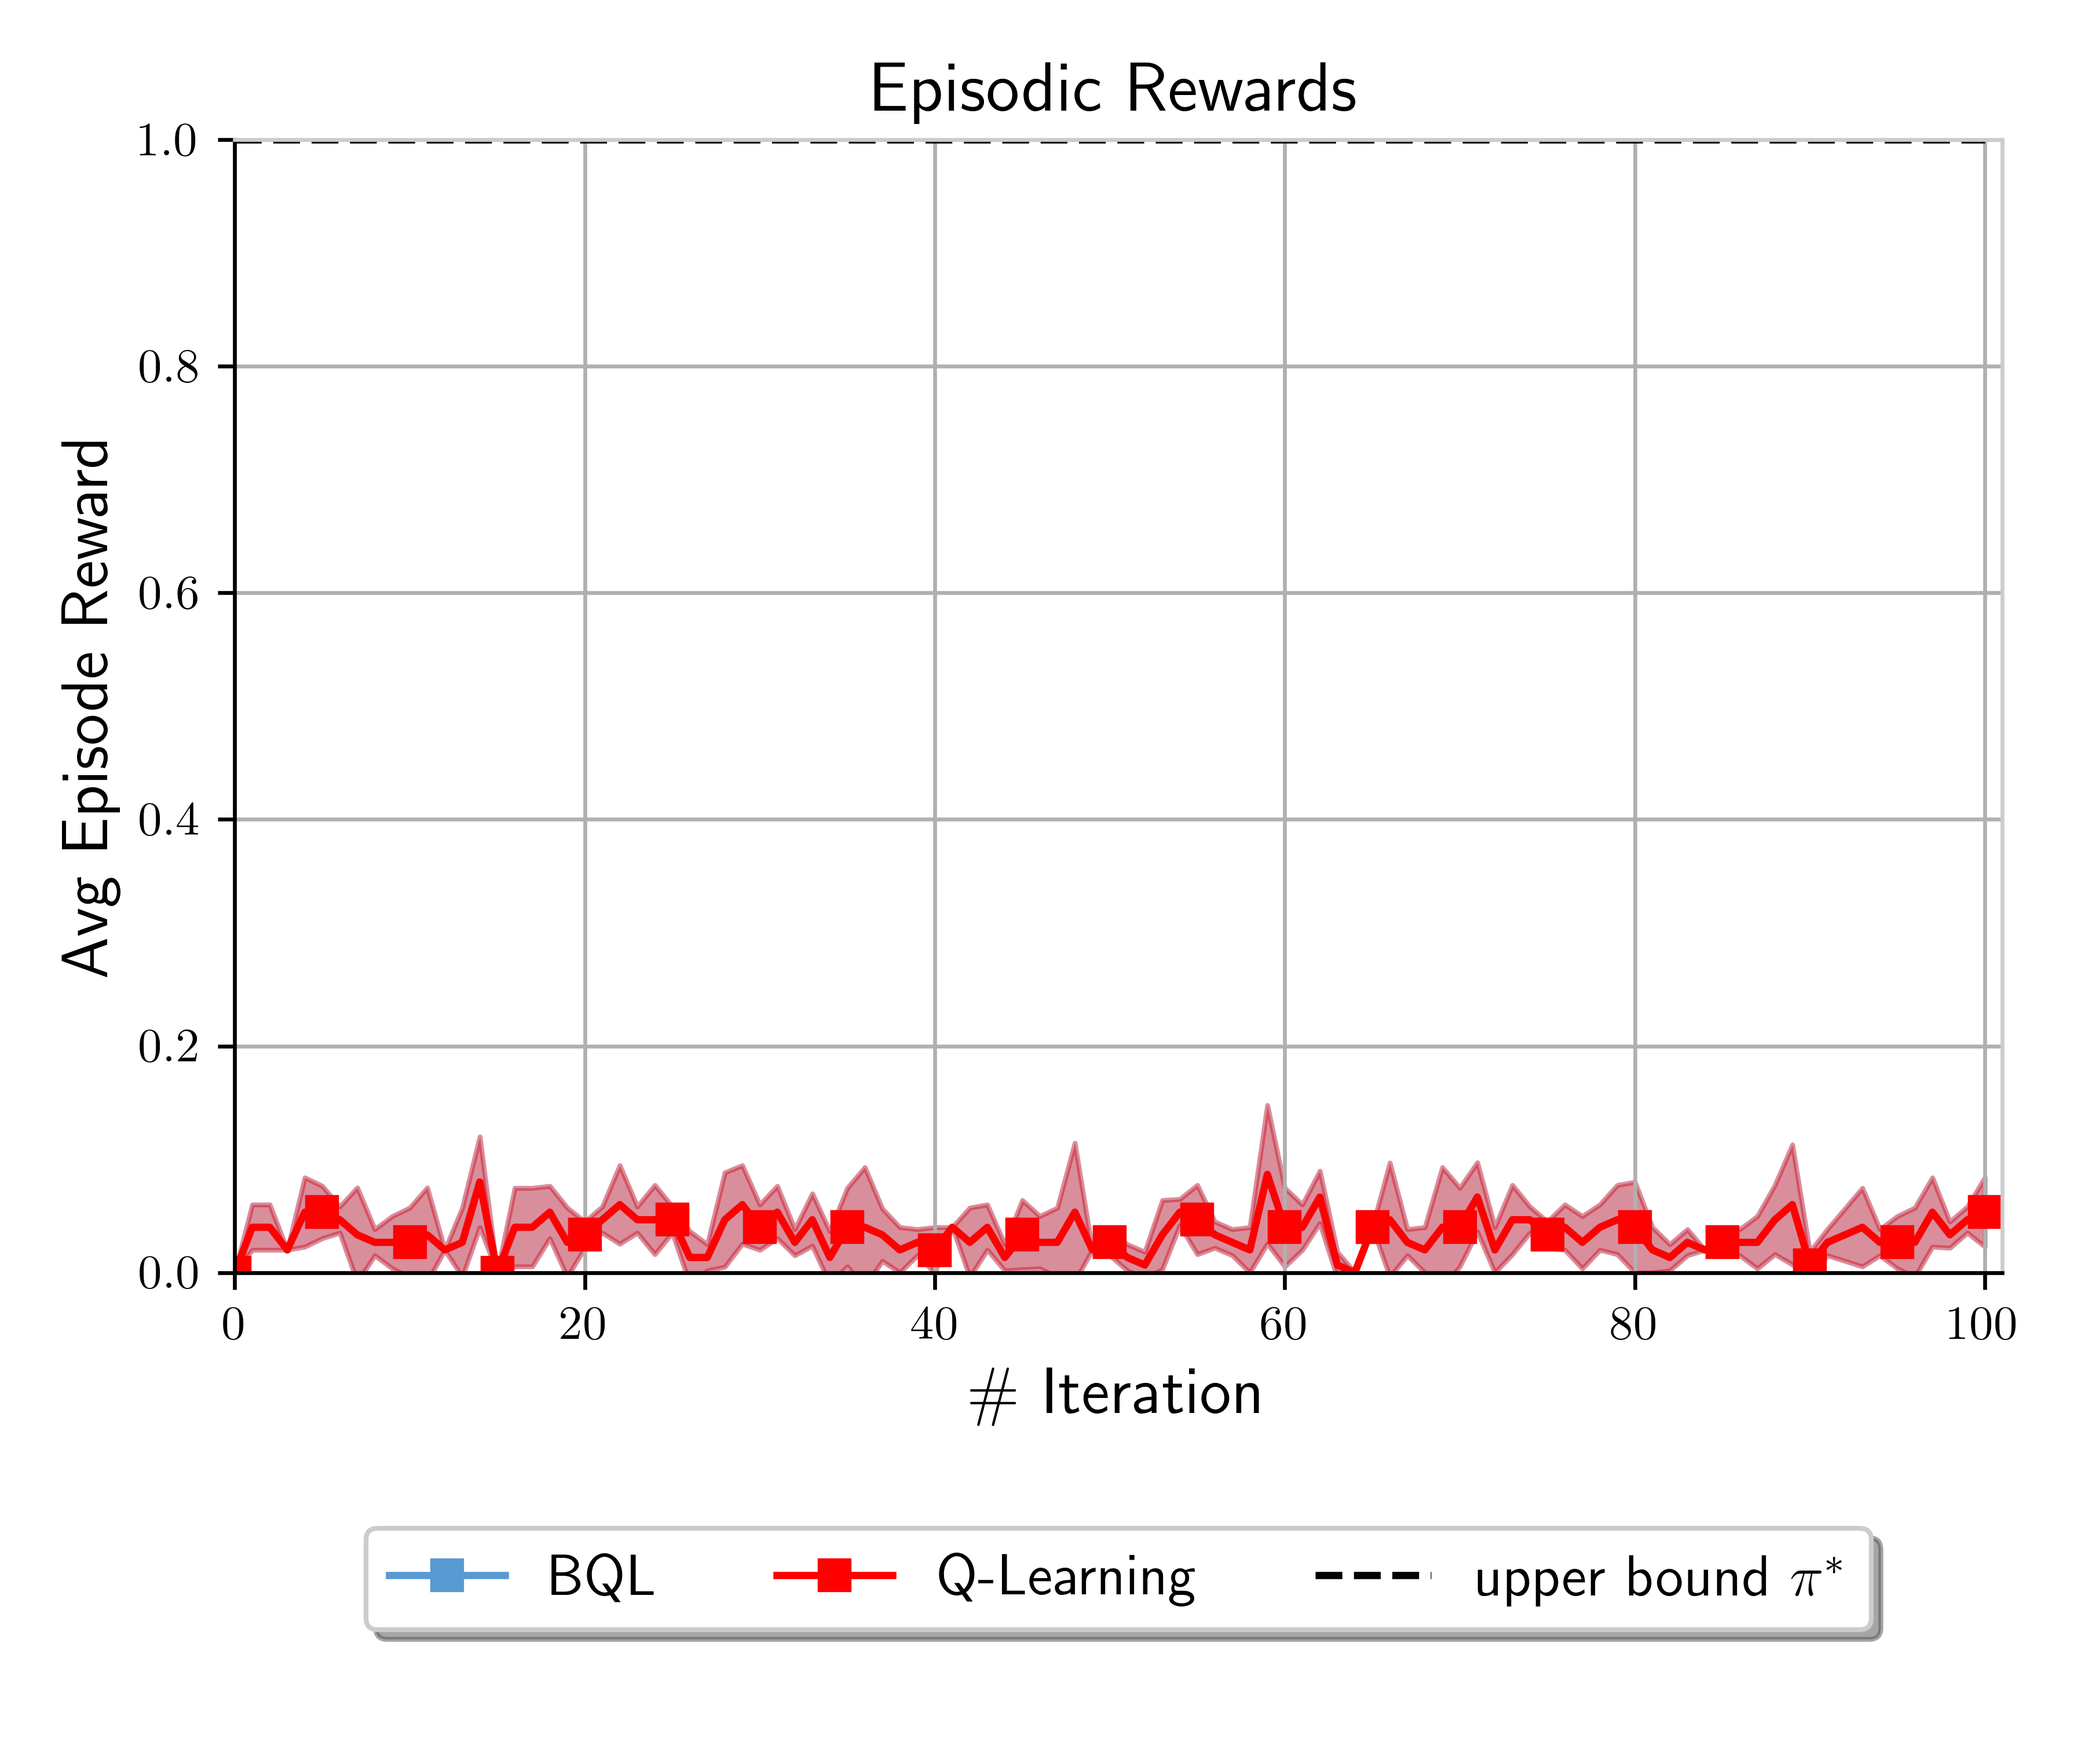
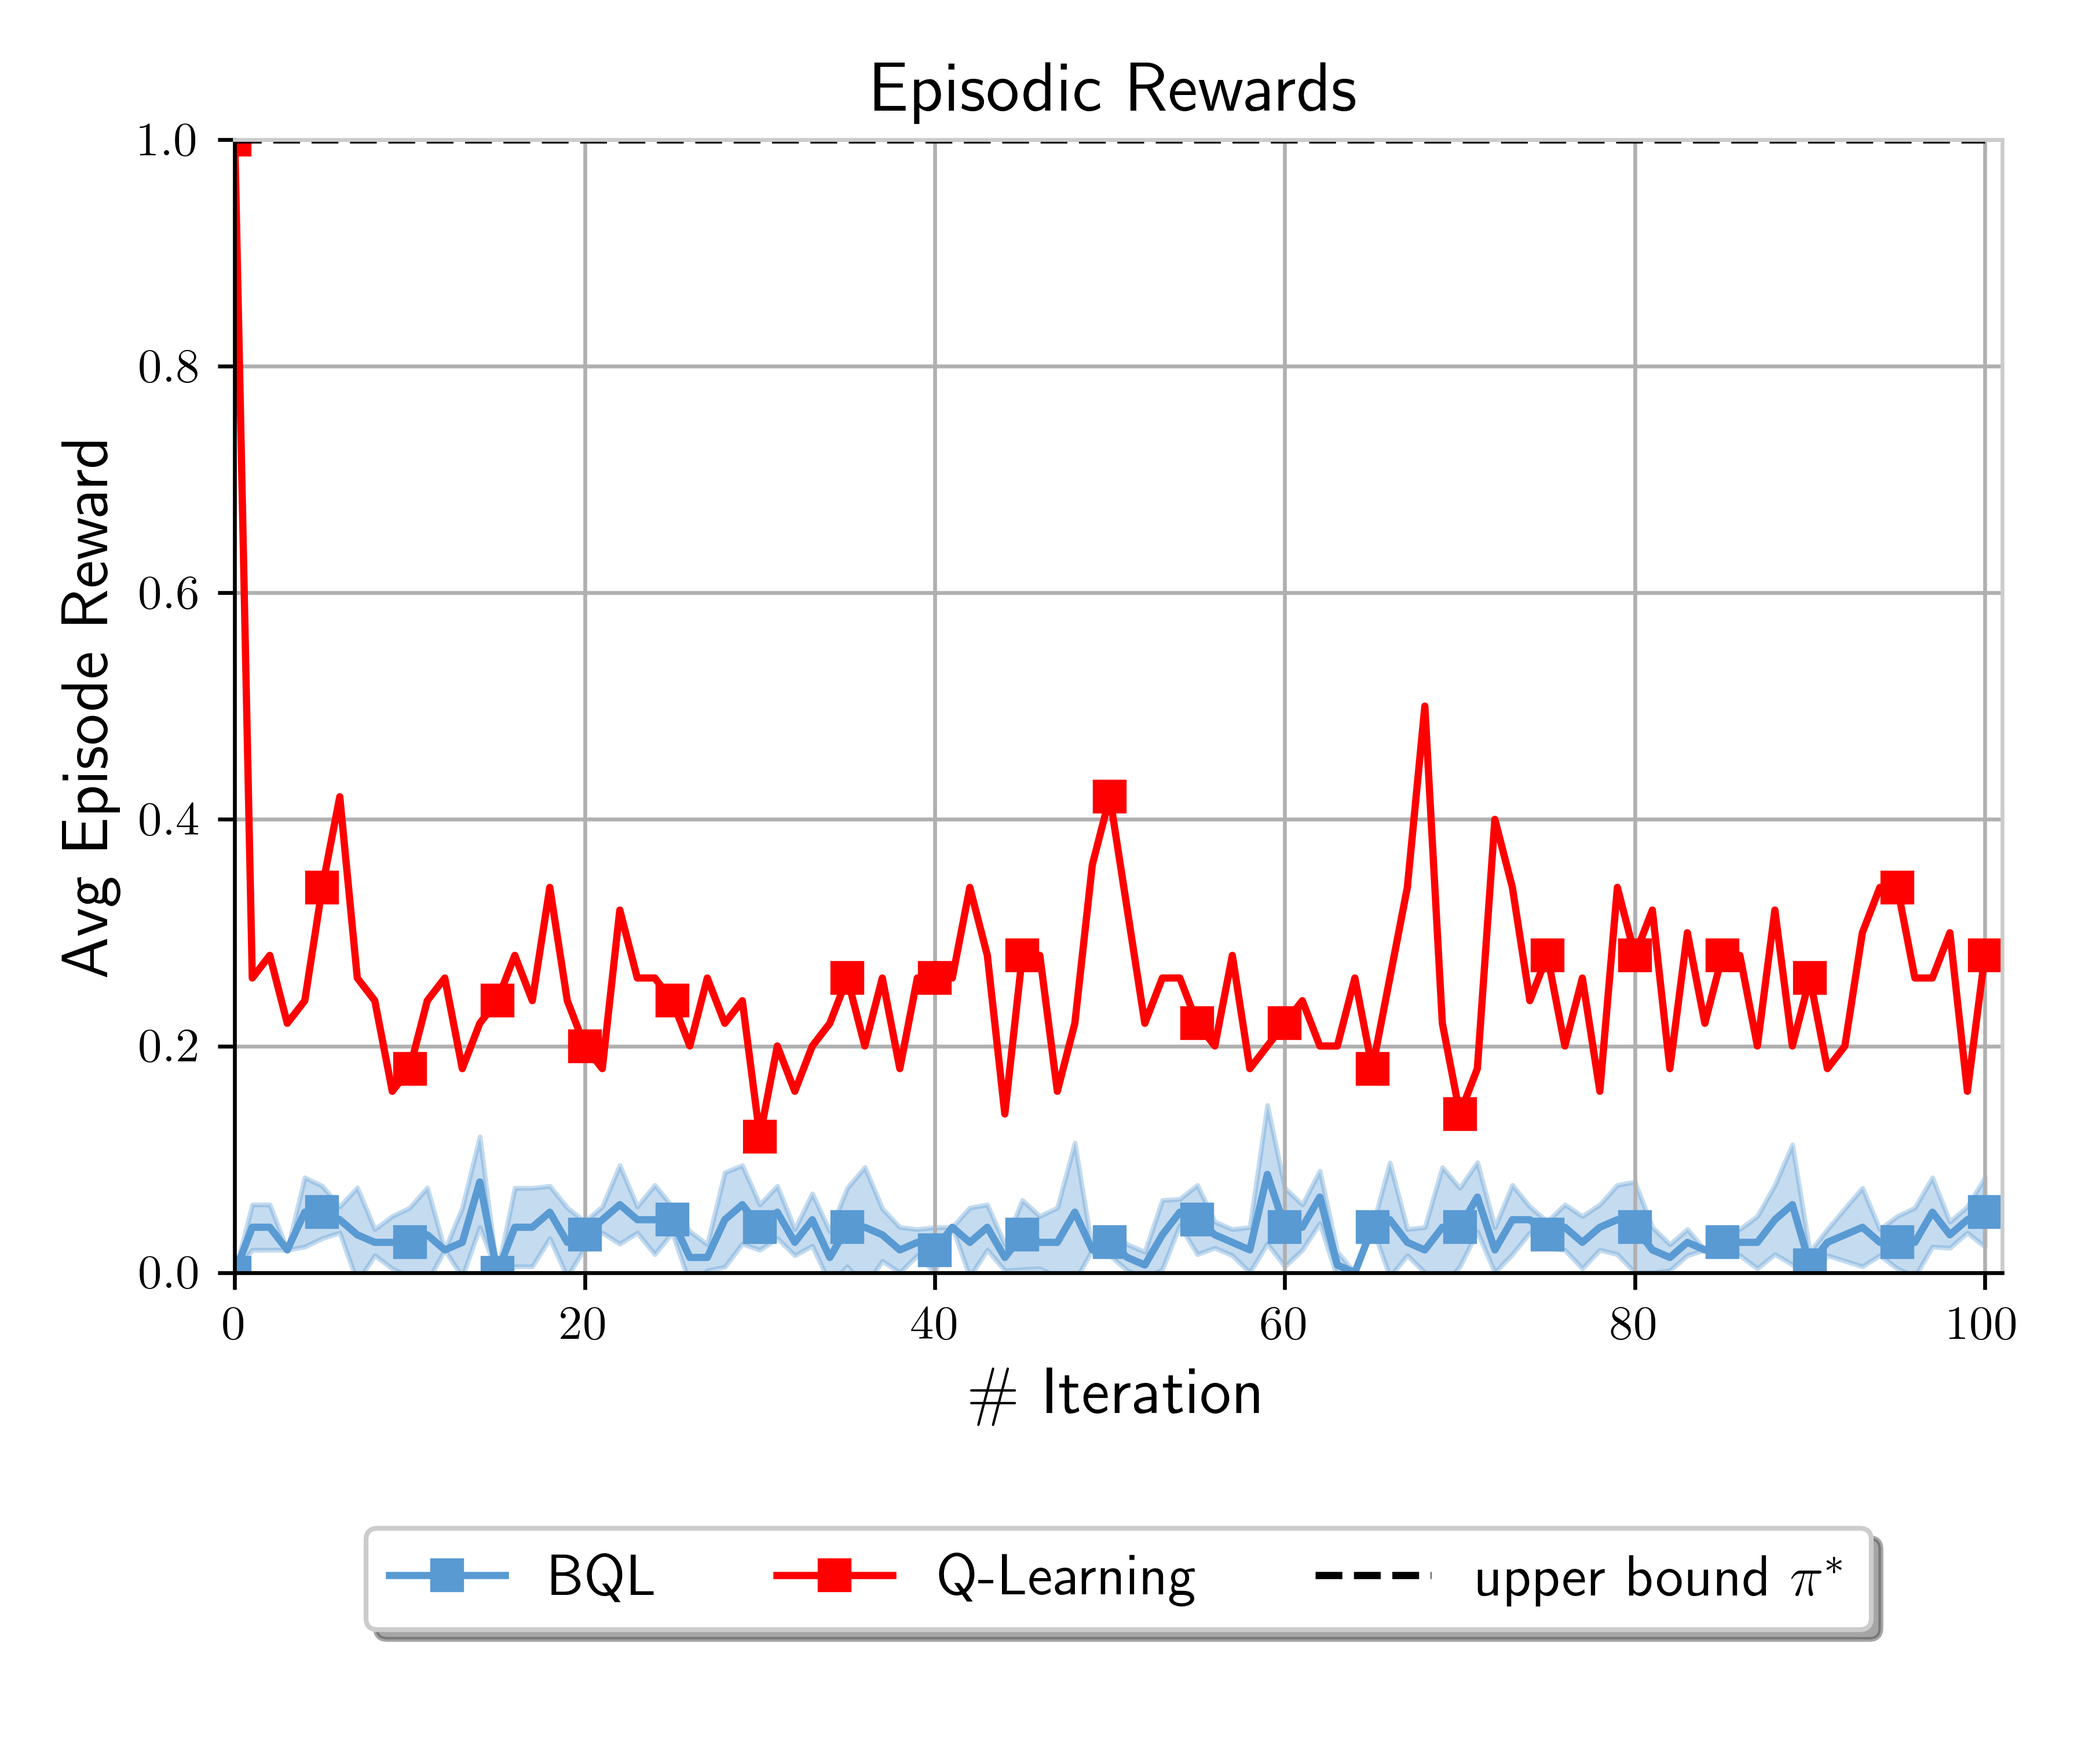
BQL defender

Changed region(s): [[0.0933, 0.186, 0.9644, 0.744]]

diff --git a/bql/plotting_util.py b/bql/plotting_util.py
@@ -90,27 +90,27 @@ if __name__ == '__main__':
     avg_bql_rewards_stds = np.std(tuple(avg_bql_rewards_data), axis=0, ddof=1)
 
     df_q_0 = pd.read_csv("/home/kim/workspace/idsgame/tabular_q/results/data/0/1625491300.7774715_train.csv")
-    df_q_299 = pd.read_csv("/Users/kimham/workspace/idsgame/tabular_q/results/data/299/1613997072.074869_train.csv")
-    df_q_999 = pd.read_csv("/Users/kimham/workspace/idsgame/tabular_q/results/data/999/1613996918.8479428_train.csv")
+    df_q_299 = pd.read_csv("/home/kim/workspace/idsgame/tabular_q/results/data/999/1625491462.834143_train.csv")
+    df_q_999 = pd.read_csv("/home/kim/workspace/idsgame/tabular_q/results/data/299/1625491618.800865_train.csv")
     q_dfs = [df_q_0, df_q_299, df_q_999]
 
     avg_q_rewards_data = list(map(lambda df: df["hack_probability"].values, q_dfs))
     avg_q_rewards_means = np.mean(tuple(avg_q_rewards_data), axis=0)
     avg_q_rewards_stds = np.std(tuple(avg_q_rewards_data), axis=0, ddof=1)
 
-    ylim_rew = (0, 1.2)
+    ylim_rew = (0, 1)
     plot_rewards(avg_bql_rewards_data, avg_bql_rewards_means, avg_bql_rewards_stds,
                  avg_q_rewards_data, avg_q_rewards_means, avg_q_rewards_stds,
                  ylim_rew,
                  "bql_vs_q_rewards", markevery=5, optimal_steps=10, optimal_reward=1, sample_step=1,
                  plot_opt=True)
-    ylim_rew = (0.0, 1)
-    print(avg_bql_rewards_means)
-    plot_rewards(avg_bql_rewards_data, avg_bql_rewards_means, avg_bql_rewards_stds,
-                 avg_bql_rewards_data, avg_bql_rewards_means, avg_bql_rewards_stds,
-                 ylim_rew,
-                 "bql_vs_q_rewards", markevery=5, optimal_steps=10, optimal_reward=1, sample_step=1,
-                 plot_opt=True)
+    # ylim_rew = (0.0, 1)
+    # print(avg_bql_rewards_means)
+    # plot_rewards(avg_bql_rewards_data, avg_bql_rewards_means, avg_bql_rewards_stds,
+    #              avg_bql_rewards_data, avg_bql_rewards_means, avg_bql_rewards_stds,
+    #              ylim_rew,
+    #              "bql_vs_q_rewards", markevery=5, optimal_steps=10, optimal_reward=1, sample_step=1,
+    #              plot_opt=True)
 
 
 
